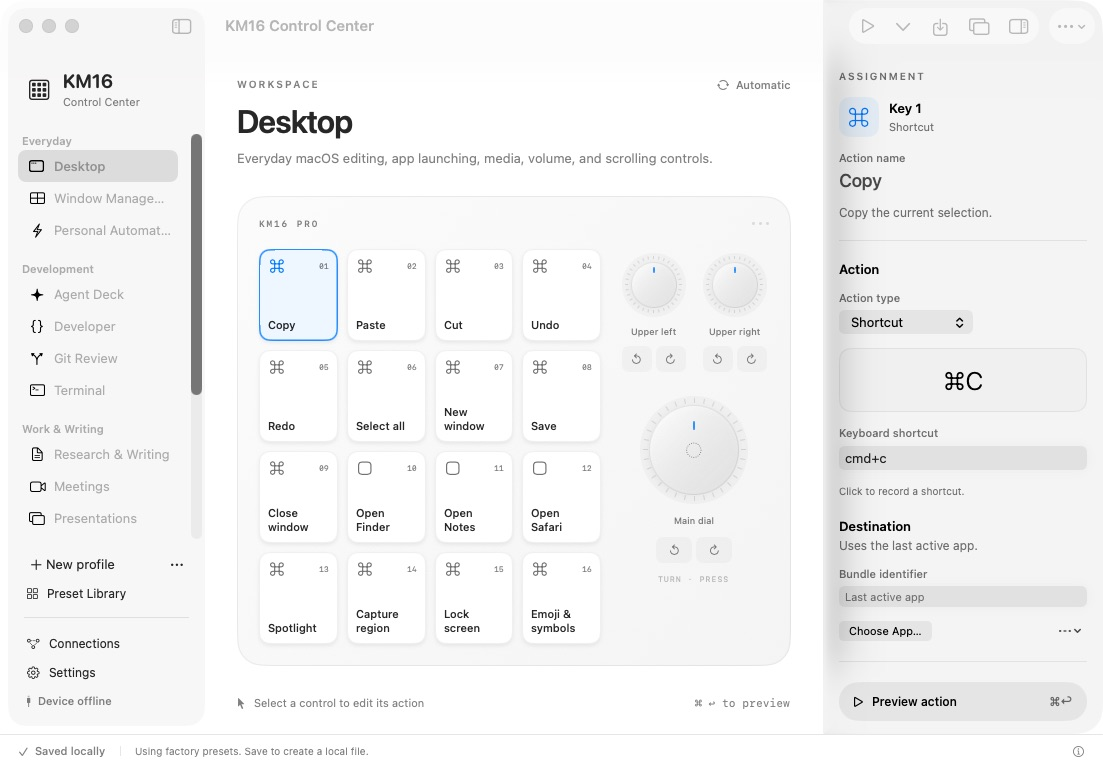
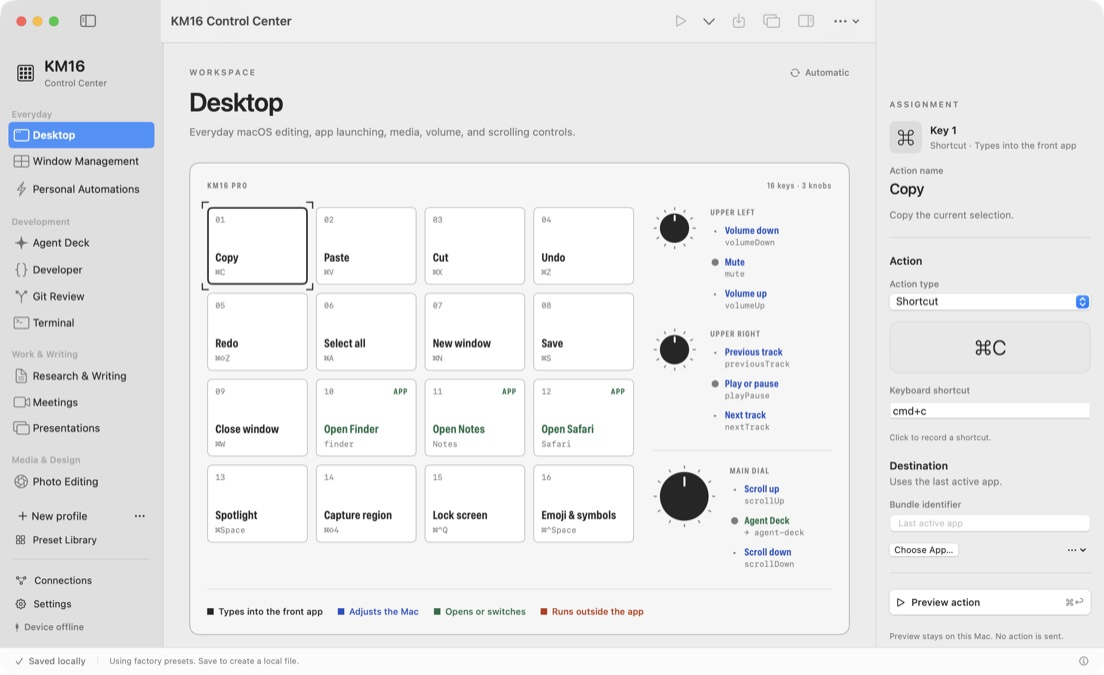
Draw the Mac app's pad as a legend card
The same identity as the browser demo, applied to the pad drawing only;
the macOS window chrome, sidebar, toolbar, and inspector stay native.

- LegendInk (DesignSystem.swift): the four consequence inks as dynamic
  light/dark colours, plus legendCode and legendTag helpers matching the demo.
- Keycaps show the number, a kind tag for non-shortcuts, the action name in
  condensed SF in its ink, and the literal code. The selected key gets crop
  marks instead of an accent tint.
- Knobs are solid caps with a printed scale; each lists its counterclockwise,
  press, and clockwise legends next to it, replacing the anonymous arrow
  buttons. The narrow layout places the three knobs in a row under the keys.
- The inspector's kind icon uses the ink and names the consequence.
- Re-captured docs/screenshots/workspace.jpg.

Accessibility labels now also name the action kind; selection traits,
context menus, and help tags are unchanged.

diff --git a/Sources/KM16ControlCenter/Views/ConfiguratorView.swift b/Sources/KM16ControlCenter/Views/ConfiguratorView.swift
@@ -55,134 +55,190 @@ struct ConfiguratorView: View {
     }
 }
 
-/// The hardware-inspired workspace is drawn from the real 4×4 + three-knob arrangement.
+/// The pad drawn as a legend card over the real 4×4 + three-knob arrangement.
+/// Every key and knob input shows its name, in its legend ink, and the code it sends.
 struct PadSurface: View {
     let availableWidth: CGFloat
-    @Environment(\.colorScheme) private var scheme
+    @Environment(\.colorSchemeContrast) private var contrast
     var body: some View {
-        VStack(spacing: 20) {
+        VStack(alignment: .leading, spacing: 20) {
             HStack {
-                Text("KM16 PRO").font(.system(size: 9, weight: .semibold, design: .monospaced)).tracking(2)
+                Text("KM16 PRO").font(.system(size: 10, weight: .semibold).width(.condensed)).tracking(1.2)
                 Spacer()
-                HStack(spacing: 4) { ForEach(0..<3) { _ in Circle().fill(.secondary.opacity(0.25)).frame(width: 3, height: 3) } }
+                Text("16 keys · 3 knobs").font(.system(size: 10, weight: .medium).width(.condensed)).tracking(0.6)
             }.foregroundStyle(.secondary)
             // Base the arrangement on the allocated width, never the active
             // profile's label lengths, so selecting a profile cannot move the dials.
-            if availableWidth >= 544 {
-                HStack(alignment: .top, spacing: 18) {
-                    keyGrid.frame(width: availableWidth - 44 - 168)
-                    dialBank.frame(width: 150)
+            if availableWidth >= 640 {
+                HStack(alignment: .top, spacing: 24) {
+                    keyGrid.frame(width: availableWidth - 44 - 24 - 220)
+                    VStack(alignment: .leading, spacing: 18) {
+                        StudioDial(index: 0); StudioDial(index: 1)
+                        Divider()
+                        StudioDial(index: 2, large: true)
+                    }.frame(width: 220)
                 }
             } else {
-                VStack(spacing: 24) { keyGrid; dialBank }
+                VStack(alignment: .leading, spacing: 22) {
+                    keyGrid
+                    Divider()
+                    HStack(alignment: .top, spacing: 14) {
+                        ForEach(0..<3) { StudioDial(index: $0, stacked: true) }
+                    }
+                }
             }
+            Divider()
+            InkKey()
         }
         .padding(22)
         .background {
-            RoundedRectangle(cornerRadius: 26)
-                .fill(LinearGradient(colors: [Color.primary.opacity(scheme == .dark ? 0.06 : 0.018), Color.primary.opacity(scheme == .dark ? 0.025 : 0.05)], startPoint: .topLeading, endPoint: .bottomTrailing))
-                .overlay(RoundedRectangle(cornerRadius: 26).strokeBorder(.primary.opacity(0.08)))
+            RoundedRectangle(cornerRadius: 12)
+                .fill(Color(nsColor: .textBackgroundColor).opacity(0.55))
+                .overlay(RoundedRectangle(cornerRadius: 12).strokeBorder(.primary.opacity(contrast == .increased ? 0.6 : 0.35)))
         }
     }
     private var keyGrid: some View {
-        LazyVGrid(columns: Array(repeating: GridItem(.flexible(minimum: 60), spacing: 9), count: 4), spacing: 9) {
+        LazyVGrid(columns: Array(repeating: GridItem(.flexible(minimum: 60), spacing: 10), count: 4), spacing: 10) {
             ForEach(ControlID.keys) { StudioKeycap(controlID: $0) }
         }
     }
-    private var dialBank: some View {
-        VStack(spacing: 24) {
-            HStack(alignment: .top, spacing: 12) { StudioDial(index: 0); StudioDial(index: 1) }
-            StudioDial(index: 2, large: true)
-        }.padding(.top, 4)
+}
+
+/// The legend for the four inks, printed at the foot of the card.
+private struct InkKey: View {
+    var body: some View {
+        HStack(spacing: 18) {
+            ForEach(LegendInk.allCases, id: \.self) { ink in
+                HStack(spacing: 6) {
+                    Rectangle().fill(ink.color).frame(width: 8, height: 8)
+                    Text(ink.title).foregroundStyle(ink.color)
+                }
+            }
+            Spacer(minLength: 0)
+        }
+        .font(.system(size: 11, weight: .medium))
+        .lineLimit(1).minimumScaleFactor(0.8)
+        .accessibilityElement(children: .combine)
+    }
+}
+
+/// Crop marks around the selected control, instead of a tinted glow.
+private struct RegistrationMarks: Shape {
+    var length: CGFloat = 8
+    func path(in rect: CGRect) -> Path {
+        var path = Path()
+        for (corner, dx, dy) in [(CGPoint(x: rect.minX, y: rect.minY), 1.0, 1.0), (CGPoint(x: rect.maxX, y: rect.minY), -1.0, 1.0),
+                                 (CGPoint(x: rect.minX, y: rect.maxY), 1.0, -1.0), (CGPoint(x: rect.maxX, y: rect.maxY), -1.0, -1.0)] {
+            path.move(to: CGPoint(x: corner.x + dx * length, y: corner.y)); path.addLine(to: corner)
+            path.addLine(to: CGPoint(x: corner.x, y: corner.y + dy * length))
+        }
+        return path
     }
 }
 
 struct StudioKeycap: View {
     @Environment(ControlCenterStore.self) private var store
-    @Environment(\.colorScheme) private var scheme
     @Environment(\.accessibilityReduceMotion) private var reduceMotion
     @Environment(\.colorSchemeContrast) private var contrast
     @State private var hovered = false
     let controlID: ControlID
     private var action: ControlAction { store.activeProfile.binding(for: controlID)!.action }
     private var selected: Bool { store.selectedControlID == controlID }
+    private var ink: LegendInk { LegendInk(action.kind) }
     var body: some View {
         Button { store.selectedControlID = controlID } label: {
-            VStack(alignment: .leading, spacing: 12) {
+            VStack(alignment: .leading, spacing: 4) {
                 HStack {
-                    Image(systemName: StudioStyle.actionSymbol(action.kind)).font(.system(size: 15, weight: .regular)).foregroundStyle(selected ? Color.accentColor : .primary.opacity(0.65))
+                    Text(String(format: "%02d", controlID.keyNumber ?? 0)).font(.system(size: 10, design: .monospaced)).foregroundStyle(.secondary)
                     Spacer(minLength: 0)
-                    Text(String(format: "%02d", controlID.keyNumber ?? 0)).font(.system(size: 8, weight: .medium, design: .monospaced)).foregroundStyle(.secondary)
+                    if action.kind != .shortcut {
+                        Text(StudioStyle.legendTag(action.kind).uppercased()).font(.system(size: 10, weight: .semibold).width(.condensed)).tracking(0.6)
+                            .foregroundStyle(ink.color).lineLimit(1)
+                    }
                 }
                 Spacer(minLength: 0)
-                Text(action.label).font(.system(size: 11, weight: .medium)).lineLimit(2).minimumScaleFactor(0.85).multilineTextAlignment(.leading).frame(height: 28, alignment: .bottomLeading)
+                Text(action.label).font(.system(size: 14, weight: .semibold).width(.condensed)).foregroundStyle(ink.color)
+                    .lineLimit(2).minimumScaleFactor(0.85).multilineTextAlignment(.leading)
+                Text(StudioStyle.legendCode(action)).font(.system(size: 10, design: .monospaced)).foregroundStyle(.secondary)
+                    .lineLimit(1).truncationMode(.tail)
             }
-            .padding(9).frame(maxWidth: .infinity).frame(height: 92)
+            .padding(.horizontal, 10).padding(.vertical, 9).frame(maxWidth: .infinity, alignment: .leading).frame(height: 96)
             .background {
-                RoundedRectangle(cornerRadius: 11)
-                    .fill(scheme == .dark ? Color(nsColor: .controlBackgroundColor).opacity(0.8) : Color(nsColor: .controlBackgroundColor))
-                    .shadow(color: .black.opacity(scheme == .dark ? 0.18 : 0.07), radius: hovered ? 5 : 2, y: hovered ? 3 : 2)
-                    .overlay(RoundedRectangle(cornerRadius: 11).fill(Color.accentColor.opacity(selected ? 0.065 : 0)))
-                    .overlay(RoundedRectangle(cornerRadius: 11).strokeBorder(selected ? Color.accentColor.opacity(0.85) : .primary.opacity(contrast == .increased ? 0.4 : (hovered ? 0.18 : 0.07)), lineWidth: selected ? 1.5 : 1))
+                RoundedRectangle(cornerRadius: 6)
+                    .fill(hovered ? Color.primary.opacity(0.05) : Color(nsColor: .controlBackgroundColor))
+                    .overlay(alignment: .top) { if ink == .runs { Rectangle().fill(ink.color.opacity(0.18)).frame(height: 3).clipShape(RoundedRectangle(cornerRadius: 6)) } }
+                    .overlay(RoundedRectangle(cornerRadius: 6).strokeBorder(selected ? Color.primary : .primary.opacity(contrast == .increased ? 0.6 : 0.3), lineWidth: selected ? 2 : 1))
             }
-            .offset(y: hovered ? -1 : 0)
+            .overlay { if selected { RegistrationMarks().stroke(Color.primary, lineWidth: 1.5).padding(-6) } }
+            .contentShape(Rectangle())
         }
         .buttonStyle(.plain).onHover { hovered = $0 }
         .animation(reduceMotion ? nil : .easeOut(duration: 0.12), value: hovered)
         .help("\(controlID.gridTitle): \(action.label)")
-        .accessibilityLabel("\(controlID.gridTitle), \(action.label)")
+        .accessibilityLabel("\(controlID.gridTitle), \(action.label), \(action.kind.displayName)")
         .accessibilityAddTraits(selected ? .isSelected : [])
         .contextMenu { Button("Preview Action", systemImage: "play") { store.simulate(controlID) } }
     }
 }
 
+/// A knob drawn as a solid cap through the card, with its scale printed around it
+/// and its three legends (counterclockwise, press, clockwise) set beside it.
 struct StudioDial: View {
     @Environment(ControlCenterStore.self) private var store
-    @Environment(\.colorScheme) private var scheme
     let index: Int
     var large = false
-    private var size: CGFloat { large ? 108 : 64 }
+    var stacked = false
+    private var size: CGFloat { large && !stacked ? 76 : 52 }
     private var pressID: ControlID { ControlID.encoder(index, .press)! }
     var body: some View {
-        VStack(spacing: large ? 11 : 9) {
+        let layout = stacked ? AnyLayout(VStackLayout(alignment: .leading, spacing: 10)) : AnyLayout(HStackLayout(alignment: .top, spacing: 12))
+        layout {
             Button { store.selectedControlID = pressID } label: {
                 ZStack {
-                    Circle().fill(.primary.opacity(0.035))
-                    ForEach(0..<32, id: \.self) { tick in
-                        Capsule().fill(.primary.opacity(0.14)).frame(width: 1, height: large ? 5 : 3)
-                            .offset(y: -size / 2 + 5).rotationEffect(.degrees(Double(tick) * 11.25))
+                    ForEach(0..<12, id: \.self) { tick in
+                        Capsule().fill(.secondary).frame(width: 1.5, height: 4)
+                            .offset(y: -size / 2 + 2).rotationEffect(.degrees(Double(tick) * 30))
                     }
-                    Circle().fill(LinearGradient(colors: [Color(nsColor: .controlBackgroundColor), Color.primary.opacity(0.06)], startPoint: .topLeading, endPoint: .bottomTrailing))
-                        .padding(9).shadow(color: .black.opacity(0.08), radius: 3, y: 2)
-                    Circle().strokeBorder(store.selectedControlID == pressID ? Color.accentColor : .primary.opacity(0.1), lineWidth: store.selectedControlID == pressID ? 1.5 : 1).padding(9)
-                    Capsule().fill(Color.accentColor.opacity(0.8)).frame(width: 2, height: large ? 9 : 6).offset(y: -size * 0.23)
-                    if large { Image(systemName: "circle.dotted").font(.system(size: 16, weight: .light)).foregroundStyle(.secondary) }
-                }.frame(width: size, height: size)
+                    Circle().fill(Color.primary).padding(8)
+                    Capsule().fill(Color(nsColor: .windowBackgroundColor)).frame(width: 2.5, height: size * 0.16).offset(y: -size * 0.24)
+                }
+                .frame(width: size, height: size)
+                .overlay { if store.selectedControlID == pressID { RegistrationMarks(length: 7).stroke(Color.primary, lineWidth: 1.5).padding(-3) } }
+                .contentShape(Circle())
             }.buttonStyle(.plain)
                 .help("Edit \(index.encoderName.lowercased()) press")
                 .accessibilityAddTraits(store.selectedControlID == pressID ? .isSelected : [])
                 .contextMenu { Button("Preview Action") { store.simulate(pressID) } }
                 .accessibilityLabel("\(index.encoderName) press, \(store.activeProfile.binding(for: pressID)!.action.label)")
-            Text(index.encoderName).font(.system(size: 9, weight: .medium)).foregroundStyle(.secondary)
-            HStack(spacing: 4) {
-                direction(.counterClockwise, symbol: "arrow.counterclockwise")
-                direction(.clockwise, symbol: "arrow.clockwise")
+            VStack(alignment: .leading, spacing: 2) {
+                Text(index.encoderName.uppercased()).font(.system(size: 10, weight: .semibold).width(.condensed)).tracking(0.8).foregroundStyle(.secondary)
+                    .padding(.leading, 6).padding(.bottom, 2)
+                legend(.counterClockwise, glyph: "◂")
+                legend(.press, glyph: "●")
+                legend(.clockwise, glyph: "▸")
             }
-            if large {
-                Text("TURN · PRESS").font(.system(size: 8, weight: .medium, design: .monospaced)).tracking(1).foregroundStyle(.tertiary)
-            }
-        }.frame(maxWidth: .infinity)
+        }.frame(maxWidth: .infinity, alignment: .leading)
     }
-    private func direction(_ input: EncoderInput, symbol: String) -> some View {
+    private func legend(_ input: EncoderInput, glyph: String) -> some View {
         let id = ControlID.encoder(index, input)!
+        let action = store.activeProfile.binding(for: id)!.action
+        let selected = store.selectedControlID == id
         return Button { store.selectedControlID = id } label: {
-            Image(systemName: symbol).font(.system(size: 10, weight: .medium)).frame(width: large ? 36 : 30, height: 26)
-                .background(store.selectedControlID == id ? Color.accentColor.opacity(0.1) : .primary.opacity(0.035), in: RoundedRectangle(cornerRadius: 7))
-                .foregroundStyle(store.selectedControlID == id ? Color.accentColor : .secondary)
+            HStack(alignment: .firstTextBaseline, spacing: 6) {
+                Text(glyph).font(.system(size: 11)).foregroundStyle(.secondary).frame(width: 12)
+                VStack(alignment: .leading, spacing: 1) {
+                    Text(action.label).font(.system(size: 12, weight: .semibold).width(.condensed)).foregroundStyle(LegendInk(action.kind).color).lineLimit(1)
+                    Text(StudioStyle.legendCode(action)).font(.system(size: 10, design: .monospaced)).foregroundStyle(.secondary).lineLimit(1).truncationMode(.tail)
+                }
+                Spacer(minLength: 0)
+            }
+            .padding(.horizontal, 6).padding(.vertical, 4)
+            .background(RoundedRectangle(cornerRadius: 4).strokeBorder(selected ? Color.primary : .clear, lineWidth: 1.5))
+            .contentShape(Rectangle())
         }.buttonStyle(.plain)
-            .help(store.activeProfile.binding(for: id)!.action.label)
-            .accessibilityAddTraits(store.selectedControlID == id ? .isSelected : [])
-            .accessibilityLabel("\(index.encoderName), \(input.displayName), \(store.activeProfile.binding(for: id)!.action.label)")
+            .help(action.label)
+            .accessibilityAddTraits(selected ? .isSelected : [])
+            .accessibilityLabel("\(index.encoderName), \(input.displayName), \(action.label)")
             .contextMenu { Button("Preview Action") { store.simulate(id) } }
     }
 }

diff --git a/Sources/KM16ControlCenter/Views/DesignSystem.swift b/Sources/KM16ControlCenter/Views/DesignSystem.swift
@@ -47,6 +47,78 @@ enum StudioStyle {
     }
 }
 
+/// Legend inks name what an action reaches, the way printed keyboard templates
+/// once coloured each legend: carbon types into the front app, cobalt adjusts the
+/// Mac, green opens or switches, vermilion runs something outside this app.
+enum LegendInk: CaseIterable {
+    case types, adjusts, opens, runs
+
+    init(_ kind: ActionKind) {
+        switch kind {
+        case .shortcut, .snippet, .disabled: self = .types
+        case .system: self = .adjusts
+        case .launchApp, .profileSwitch: self = .opens
+        case .shell, .agentAction, .obsAction: self = .runs
+        }
+    }
+
+    var title: String {
+        switch self {
+        case .types: "Types into the front app"
+        case .adjusts: "Adjusts the Mac"
+        case .opens: "Opens or switches"
+        case .runs: "Runs outside the app"
+        }
+    }
+
+    var color: Color {
+        switch self {
+        case .types: .primary
+        case .adjusts: Self.dynamic(light: 0x1F4FC1, dark: 0x93ACFF)
+        case .opens: Self.dynamic(light: 0x1D6B45, dark: 0x72C89D)
+        case .runs: Self.dynamic(light: 0xB8360F, dark: 0xFF8E6A)
+        }
+    }
+
+    private static func dynamic(light: UInt32, dark: UInt32) -> Color {
+        Color(nsColor: NSColor(name: nil) { appearance in
+            let hex = appearance.bestMatch(from: [.aqua, .darkAqua]) == .darkAqua ? dark : light
+            return NSColor(srgbRed: CGFloat(hex >> 16 & 0xFF) / 255, green: CGFloat(hex >> 8 & 0xFF) / 255, blue: CGFloat(hex & 0xFF) / 255, alpha: 1)
+        })
+    }
+}
+
+extension StudioStyle {
+    /// The tag printed on a key whose kind is not the default shortcut.
+    static func legendTag(_ kind: ActionKind) -> String {
+        switch kind {
+        case .shortcut: "Keys"
+        case .snippet: "Text"
+        case .system: "System"
+        case .launchApp: "App"
+        case .profileSwitch: "Switch"
+        case .shell: "Shell"
+        case .agentAction: "Agent"
+        case .obsAction: "OBS"
+        case .disabled: "Off"
+        }
+    }
+
+    /// The short code printed under a legend: what the control literally sends.
+    static func legendCode(_ action: ControlAction) -> String {
+        let value = action.parameter.trimmingCharacters(in: .whitespacesAndNewlines)
+        switch action.kind {
+        case .shortcut: return shortcutLabel(value)
+        case .launchApp: return value.split(separator: ".").last.map(String.init) ?? value
+        case .profileSwitch: return "→ \(value)"
+        case .snippet: return "“\(value)”"
+        case .shell: return (try? ProcessSpec.parse(value)).map { URL(filePath: $0.executable).lastPathComponent } ?? "process"
+        case .disabled: return "—"
+        default: return value
+        }
+    }
+}
+
 struct StudioSection<Content: View>: View {
     let title: String
     let subtitle: String?

diff --git a/Sources/KM16ControlCenter/Views/ControlInspectorView.swift b/Sources/KM16ControlCenter/Views/ControlInspectorView.swift
@@ -18,11 +18,11 @@ struct ControlInspectorView: View {
                     Text("ASSIGNMENT").font(.system(size: 10, weight: .semibold)).tracking(1.8).foregroundStyle(.secondary)
                     HStack(spacing: 10) {
                         Image(systemName: StudioStyle.actionSymbol(store.selectedBinding.action.kind))
-                            .font(.system(size: 21, weight: .light)).foregroundStyle(Color.accentColor)
-                            .frame(width: 40, height: 40).background(Color.accentColor.opacity(0.07), in: RoundedRectangle(cornerRadius: 11))
+                            .font(.system(size: 21, weight: .light)).foregroundStyle(LegendInk(store.selectedBinding.action.kind).color)
+                            .frame(width: 40, height: 40).background(LegendInk(store.selectedBinding.action.kind).color.opacity(0.08), in: RoundedRectangle(cornerRadius: 8))
                         VStack(alignment: .leading, spacing: 4) {
                             Text(store.selectedControlID.gridTitle).font(.system(size: 13, weight: .semibold)).lineLimit(1).truncationMode(.tail)
-                            Text(store.selectedBinding.action.kind.displayName).font(.system(size: 11)).foregroundStyle(.secondary).lineLimit(1).truncationMode(.tail)
+                            Text("\(store.selectedBinding.action.kind.displayName) · \(LegendInk(store.selectedBinding.action.kind).title)").font(.system(size: 11)).foregroundStyle(.secondary).lineLimit(1).truncationMode(.tail)
                         }
                         .frame(maxWidth: .infinity, alignment: .leading)
                     }

diff --git a/docs/screenshots/README.md b/docs/screenshots/README.md
@@ -3,7 +3,8 @@
 These JPEGs were captured from the running macOS app on September 14, 2026, using
 factory profiles and a separate temporary profile library. Live actions were
 disabled; OBS and Codex were not connected. The images are unedited app-window
-captures.
+captures. `workspace.jpg` was re-captured on September 27, 2026, the same way,
+after the legend-card redesign of the pad drawing.
 
 To update the tour, build the app and launch it with `KM16_PROFILES_PATH` set to an
 absolute path in a new temporary directory. Capture the Desktop workspace, the
